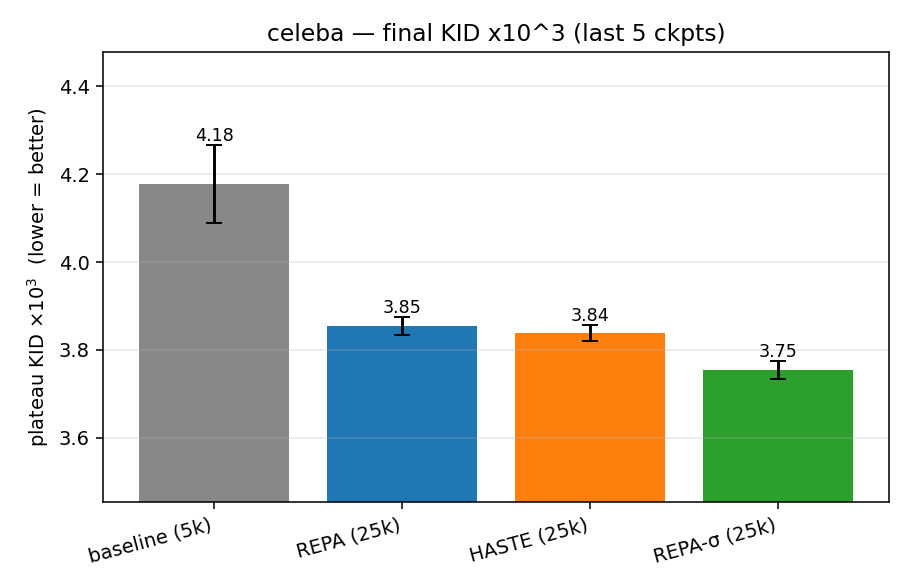
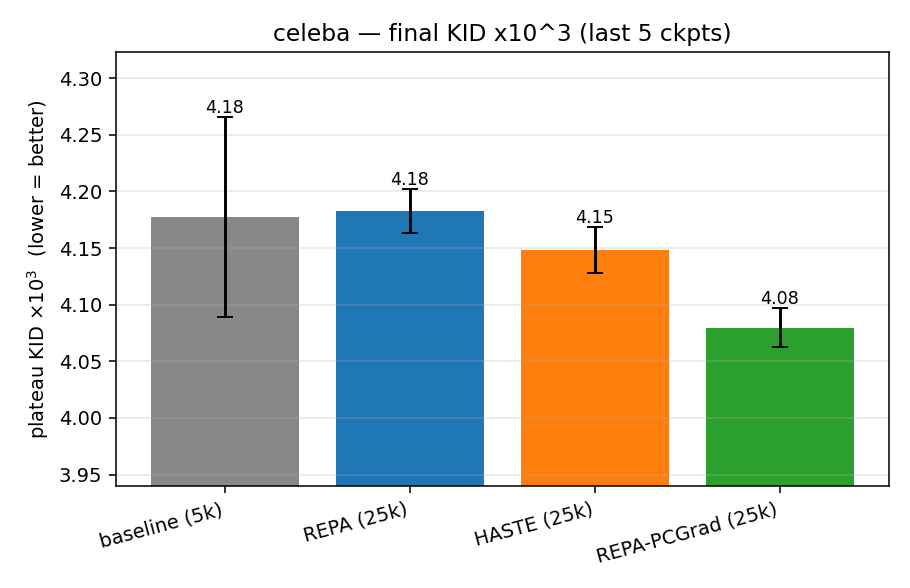
change naming

Changed region(s): [[0.0308, 0.1531, 0.9846, 0.949], [0.2769, 0.0306, 0.8, 0.0918], [0.0615, 0.1224, 0.1231, 0.1531]]

diff --git a/results/analysis/analyze_kid.py b/results/analysis/analyze_kid.py
@@ -4,7 +4,9 @@
 Reads every kid_*.csv in the given folder (one run each, ideally named
 kid_<mode>_<N>.csv, e.g. kid_repa_25k.csv), reports KID x10^3 (± SE) and, if the
 CSV has a `fid` column, FID too; tests plateau differences vs baseline / REPA and
-writes figures for each metric.
+writes figures for each metric. Also runs the REPA-style "a fixed quality level is
+reached faster" analysis: iterations to hit target KID/FID levels and the speedup
+vs the reference run (baseline, or REPA when baseline lacks the metric).
 
 Usage:
     python results/analysis/analyze_kid.py results/celeba
@@ -25,10 +27,10 @@ import matplotlib.pyplot as plt
 KID_SCALE = 1e3  # report KID x10^3
 
 PRETTY = {"baseline": "baseline", "repa": "REPA", "haste": "HASTE",
-          "sigma": "REPA-σ", "repa-sigma": "REPA-σ"}
+          "pcgrad": "REPA-PCGrad", "repa-PCGrad": "REPA-PCGrad"}
 COLOR = {"baseline": "#888888", "repa": "#1f77b4", "haste": "#ff7f0e",
-         "sigma": "#2ca02c", "repa-sigma": "#2ca02c"}
-ORDER = ["baseline", "repa", "haste", "sigma", "repa-sigma"]
+         "pcgrad": "#2ca02c", "repa-PCGrad": "#2ca02c"}
+ORDER = ["baseline", "repa", "haste", "pcgrad", "repa-PCGrad"]
 _CYCLE = ["#9467bd", "#8c564b", "#e377c2", "#17becf", "#bcbd22"]
 
 
@@ -66,6 +68,24 @@ def plateau(values, n):
     mu = statistics.mean(tail)
     se = statistics.pstdev(tail) / (len(tail) ** 0.5) if len(tail) > 1 else 0.0
     return mu, se
+
+
+def crossing_step(steps, values, thresh):
+    """First step at which `values` first reaches <= `thresh` (linear interp in step).
+
+    Returns None if the run never gets that low. This is the REPA "iterations to
+    reach a fixed quality" quantity; the first crossing is used (later dips back
+    above the threshold are ignored, matching how speedup is reported in REPA)."""
+    if values[0] <= thresh:
+        return float(steps[0])
+    for i in range(1, len(values)):
+        if values[i] <= thresh:
+            v0, v1, s0, s1 = values[i - 1], values[i], steps[i - 1], steps[i]
+            if v0 == v1:
+                return float(s1)
+            frac = (v0 - thresh) / (v0 - v1)
+            return s0 + frac * (s1 - s0)
+    return None
 
 
 def report_and_plot(runs, vkey, sekey, name, ylabel, title, out, args):
@@ -132,6 +152,78 @@ def report_and_plot(runs, vkey, sekey, name, ylabel, title, out, args):
     fig.tight_layout(); fig.savefig(out / "plateau_bar.png", dpi=140); plt.close(fig)
 
 
+def speedup(runs, vkey, name, ylabel, title, out, args):
+    """REPA-style "fixed quality reached faster": iterations to hit a target metric.
+
+    Picks a reference run (baseline if present, else REPA), turns its plateau into
+    a ladder of targets (factor x plateau), and reports the first step each run
+    reaches each target plus the speedup = ref_steps / run_steps vs the reference.
+    Writes a steps-to-target curve and a headline speedup bar."""
+    out.mkdir(parents=True, exist_ok=True)
+    keys = [r["key"] for r in runs]
+    ref_key = next((k for k in ("baseline", "repa") if k in keys), runs[0]["key"])
+    ref = next(r for r in runs if r["key"] == ref_key)
+    p_ref, _ = plateau(ref[vkey], args.plateau)
+    # Targets the reference actually reaches (so its speedup is the 1.0 anchor).
+    levels = sorted({round(p_ref * f, 4) for f in args.speedup_factors}, reverse=True)
+    ref_steps = {lv: crossing_step(ref["steps"], ref[vkey], lv) for lv in levels}
+    levels = [lv for lv in levels if ref_steps[lv] is not None]
+    if not levels:
+        print(f"\n=== {title}: {name} speedup — reference {ref['label']} reaches no target, skipped ===")
+        return
+
+    print(f"\n=== {title}: steps to reach a fixed {name} "
+          f"(targets = factor x {ref['label']} plateau {p_ref:.3f}) ===")
+    header = "  " + " " * 16 + "".join(f"{('<=' + format(lv, '.2f')):>13s}" for lv in levels)
+    print(header)
+    steps_by_run = {}  # key -> {level: step}
+    for r in runs:
+        cells, sr = [], {}
+        for lv in levels:
+            s = crossing_step(r["steps"], r[vkey], lv)
+            sr[lv] = s
+            if s is None:
+                cells.append(f"{'—':>13s}")
+            else:
+                rs = ref_steps[lv]
+                spd = f"({rs / s:.2f}x)" if (rs and s) else ""
+                cells.append(f"{s / 1000:6.0f}k{spd:>6s}")
+        steps_by_run[r["key"]] = sr
+        print(f"  {r['label']:16s}" + "".join(cells))
+    print(f"  (speedup vs {ref['label']} in parentheses; >1 = reaches that {name} in fewer steps)")
+
+    # Steps-to-target curve: harder targets to the right (x inverted).
+    fig, ax = plt.subplots(figsize=(7.5, 4.5))
+    for r in runs:
+        xs = [lv for lv in levels if steps_by_run[r["key"]][lv] is not None]
+        ys = [steps_by_run[r["key"]][lv] for lv in xs]
+        if xs:
+            ax.plot(xs, ys, marker="o", ms=5, color=r["color"], label=r["label"])
+    ax.invert_xaxis()
+    ax.set_xlabel(f"target {ylabel}  (harder ->)"); ax.set_ylabel("training steps to reach")
+    ax.set_title(f"{title} — steps to reach a fixed {name}")
+    ax.grid(True, alpha=0.3); ax.legend()
+    fig.tight_layout(); fig.savefig(out / "speedup_curve.png", dpi=140); plt.close(fig)
+
+    # Headline speedup bar at the hardest target the reference reaches.
+    lv = levels[-1]
+    rs = ref_steps[lv]
+    labels, spds, colors = [], [], []
+    for r in runs:
+        s = steps_by_run[r["key"]][lv]
+        labels.append(r["label"]); colors.append(r["color"])
+        spds.append(rs / s if (s and rs) else 0.0)
+    fig, ax = plt.subplots(figsize=(6.5, 4.2))
+    ax.bar(labels, spds, color=colors)
+    ax.axhline(1.0, color="#888888", ls="--", lw=1)
+    for i, s in enumerate(spds):
+        ax.text(i, s, f"{s:.2f}x" if s else "—", ha="center", va="bottom", fontsize=9)
+    ax.set_ylabel(f"speedup vs {ref['label']}  (higher = faster)")
+    ax.set_title(f"{title} — steps to reach {name} <= {lv:.2f}")
+    ax.grid(True, axis="y", alpha=0.3); plt.xticks(rotation=15, ha="right")
+    fig.tight_layout(); fig.savefig(out / "speedup_bar.png", dpi=140); plt.close(fig)
+
+
 def main() -> None:
     ap = argparse.ArgumentParser(description=__doc__,
                                  formatter_class=argparse.RawDescriptionHelpFormatter)
@@ -140,6 +232,9 @@ def main() -> None:
     ap.add_argument("--subsets", type=int, default=100,
                     help="KID subsets (for SE from old CSVs without kid_se).")
     ap.add_argument("--zoom-from", type=int, default=100000, help="Plateau plot start step.")
+    ap.add_argument("--speedup-factors", type=float, nargs="+", default=[2.0, 1.5, 1.25, 1.1],
+                    help="Targets for the steps-to-fixed-quality analysis, as multiples "
+                         "of the reference run's plateau (REPA-style speedup).")
     ap.add_argument("--output", type=Path, default=None, help="PNG output dir (default: folder).")
     ap.add_argument("--title", default=None, help="Title prefix (default: folder name).")
     args = ap.parse_args()
@@ -161,10 +256,12 @@ def main() -> None:
 
     # KID uses every run; FID uses only the runs whose CSV has a `fid` column.
     report_and_plot(runs, "kid", "kse", "KID x10^3", r"KID $\times 10^3$", title, out / "kid", args)
+    speedup(runs, "kid", "KID x10^3", r"KID $\times 10^3$", title, out / "kid", args)
 
     fid_runs = [r for r in runs if r["fid"] is not None]
     if fid_runs:
         report_and_plot(fid_runs, "fid", None, "FID", "FID", title, out / "fid", args)
+        speedup(fid_runs, "fid", "FID", "FID", title, out / "fid", args)
         skipped = [r["label"] for r in runs if r["fid"] is None]
         note = f"  (FID skipped for: {', '.join(skipped)})" if skipped else ""
         print(f"\nWrote {out}/kid/ and {out}/fid/ plots{note}")

diff --git a/REPA/train.py b/REPA/train.py
@@ -40,7 +40,7 @@ CLIP_DEFAULT_STD = (0.26862954, 0.26130258, 0.27577711)
 def _allreduce_mean(tensors, world_size):
     """Average a list of per-parameter gradient tensors across DDP ranks.
 
-    Used by REPA-sigma, which computes gradients via torch.autograd.grad and
+    Used by REPA-PCGrad, which computes gradients via torch.autograd.grad and
     therefore bypasses DDP's automatic reduction. Flattens into a single
     buffer so the whole list is reduced in one all-reduce.
     """
@@ -152,7 +152,7 @@ def main(args):
         # and the simple per-step surgery below assumes no grad accumulation.
         if args.mixed_precision == "fp16":
             raise ValueError(
-                "--grad-surgery (REPA-sigma) requires --mixed-precision=bf16 (or no); "
+                "--grad-surgery (REPA-PCGrad) requires --mixed-precision=bf16 (or no); "
                 "fp16 uses a GradScaler that conflicts with manual gradients."
             )
         if args.gradient_accumulation_steps != 1:
@@ -334,7 +334,7 @@ def main(args):
     n = ys.size(0)
     xT = torch.randn((n, 4, latent_size, latent_size), device=device)
 
-    # REPA-sigma: running EMA of the (synced) diffusion gradient, kept as a
+    # REPA-PCGrad: running EMA of the (synced) diffusion gradient, kept as a
     # list of per-parameter tensors. Lazily initialized on the first step.
     grad_ema = None
 
@@ -382,7 +382,7 @@ def main(args):
                 proj_coeff = 0.0
 
             if args.grad_surgery:
-                # REPA-sigma: PCGrad-style surgery between the diffusion gradient
+                # REPA-PCGrad: PCGrad-style surgery between the diffusion gradient
                 # (g_diff) and the alignment gradient (g_repa), using an EMA of
                 # g_diff as the stable reference direction.
                 model_kwargs = dict(y=labels)
@@ -576,7 +576,7 @@ def parse_args(input_args=None):
     # and training continues on the pure denoising loss. -1 => never (plain REPA).
     parser.add_argument("--alignment-end-step", type=int, default=-1)
 
-    # REPA-sigma: PCGrad-style gradient surgery between the diffusion and
+    # REPA-PCGrad: PCGrad-style gradient surgery between the diffusion and
     # alignment gradients, using an EMA of the diffusion gradient as the stable
     # reference direction. Requires bf16 (fp16 GradScaler is incompatible with
     # manually-assembled gradients).

diff --git a/datasets/encode_repr.py b/datasets/encode_repr.py
@@ -4,7 +4,7 @@
 REPA aligns the DiT's noised-input hidden state with the encoder features of the
 *clean* image. Those targets do not depend on the diffusion noise or the training
 step, so they can be computed once and reused -- removing the per-step encoder
-forward (and the raw-image read) from repa / haste / repa-sigma training.
+forward (and the raw-image read) from repa / haste / repa-PCGrad training.
 
 Output mirrors the VAE-latent layout so REPA's CustomDataset can zip by index:
     <dest>/00000/img-repr-00000000.npy   # one (T, D) float16 array per image

diff --git a/training/compare_kid.py b/training/compare_kid.py
@@ -12,7 +12,7 @@ Example:
         ../runs/imagenet100_sit-b_2_baseline \
         ../runs/imagenet100_sit-b_2_repa \
         ../runs/imagenet100_sit-b_2_haste \
-        ../runs/imagenet100_sit-b_2_repa-sigma
+        ../runs/imagenet100_sit-b_2_repa-PCGrad
 """
 from __future__ import annotations
 

diff --git a/training/sample.py b/training/sample.py
@@ -3,7 +3,7 @@
 
 Single-GPU, writes a PNG grid to disk (handy on headless AutoDL boxes -- scp the
 png and look at it). Works for any --mode the pipeline trained (baseline / repa /
-haste / repa-sigma): the model is rebuilt from the args stored in the checkpoint,
+haste / repa-PCGrad): the model is rebuilt from the args stored in the checkpoint,
 and the projector shapes (z_dims) are inferred from the weights, so baseline
 (no projectors) and repa load alike.
 

diff --git a/training/README.md b/training/README.md
@@ -36,13 +36,13 @@ training/train.sh --dataset celeba --gpus 0 --mode baseline
 | `repa` (default) | Representation alignment with the env's `ENC_TYPE`/`PROJ_COEFF` (DINOv2, 0.5). |
 | `baseline` (alias `--baseline`) | Plain SiT, `enc-type=none, proj-coeff=0`. |
 | `haste` | REPA alignment until `HASTE_END_STEP` (default 100k), then pure diffusion loss. Implements the "stage-wise termination" of *REPA Works Until It Doesn't* (arXiv 2505.16792). |
-| `repa-sigma` | PCGrad-style gradient surgery: keeps an EMA of the diffusion gradient as a stable reference; when the alignment gradient is anticorrelated with it (`⟨g_ema,g_repa⟩<0`), the conflicting component is projected out before the update. **Forces bf16** (fp16's GradScaler is incompatible with manually-assembled gradients). |
+| `repa-PCGrad` | PCGrad-style gradient surgery: keeps an EMA of the diffusion gradient as a stable reference; when the alignment gradient is anticorrelated with it (`⟨g_ema,g_repa⟩<0`), the conflicting component is projected out before the update. **Forces bf16** (fp16's GradScaler is incompatible with manually-assembled gradients). |
 
 Mode knobs live in the dataset env: `HASTE_END_STEP` (haste) and
-`GRAD_EMA_DECAY` (repa-sigma, default 0.99).
+`GRAD_EMA_DECAY` (repa-PCGrad, default 0.99).
 
-Implementation note: `haste` and `repa-sigma` are backed by new `train.py`
-flags (`--alignment-end-step`, `--grad-surgery`/`--grad-ema-decay`). `repa-sigma`
+Implementation note: `haste` and `repa-PCGrad` are backed by new `train.py`
+flags (`--alignment-end-step`, `--grad-surgery`/`--grad-ema-decay`). `repa-PCGrad`
 gets `g_diff` from a normal DDP backward (so its all-reduce overlaps with the
 backward) and `g_repa` from `torch.autograd.grad` over the partial alignment
 graph (only that subset is all-reduced), then assembles `.grad` with fused
@@ -143,7 +143,7 @@ into the DiT input), so it's identical every epoch — i.e. precomputable.
 [`datasets/encode_repr.py`](../datasets/encode_repr.py) precomputes those
 features once (multi-GPU), and training then loads them instead of running the
 encoder — removing **both** the per-step encoder forward and the raw-image read
-from `repa` / `haste` / `repa-sigma` (≈ baseline-speed training). It's exact
+from `repa` / `haste` / `repa-PCGrad` (≈ baseline-speed training). It's exact
 (fp16 rounding aside), since it reuses REPA's own `load_encoders` + preprocessing.
 
 Opt-in (it costs disk: DINOv2-B is ~393 KB/image fp16 → ~51 GB for IN100, ~80 GB

diff --git a/results/analysis/README.md b/results/analysis/README.md
@@ -19,7 +19,7 @@ the CSV has a `fid` column — newer `evaluate.py` writes both):
 - writes figures into the folder (or `--output`): `kid_curve_full.png`,
   `kid_plateau.png`, `kid_plateau_bar.png`, and the `fid_*.png` equivalents.
 
-Known modes (`baseline`, `repa`, `haste`, `sigma`/`repa-sigma`) get fixed
+Known modes (`baseline`, `repa`, `haste`, `pcgrad`/`repa-PCGrad`) get fixed
 colors/labels/order; anything else is picked up automatically. New-format CSVs
 carry `kid_se`; older ones derive SE from `kid_std` via `--subsets` (default 100).
 